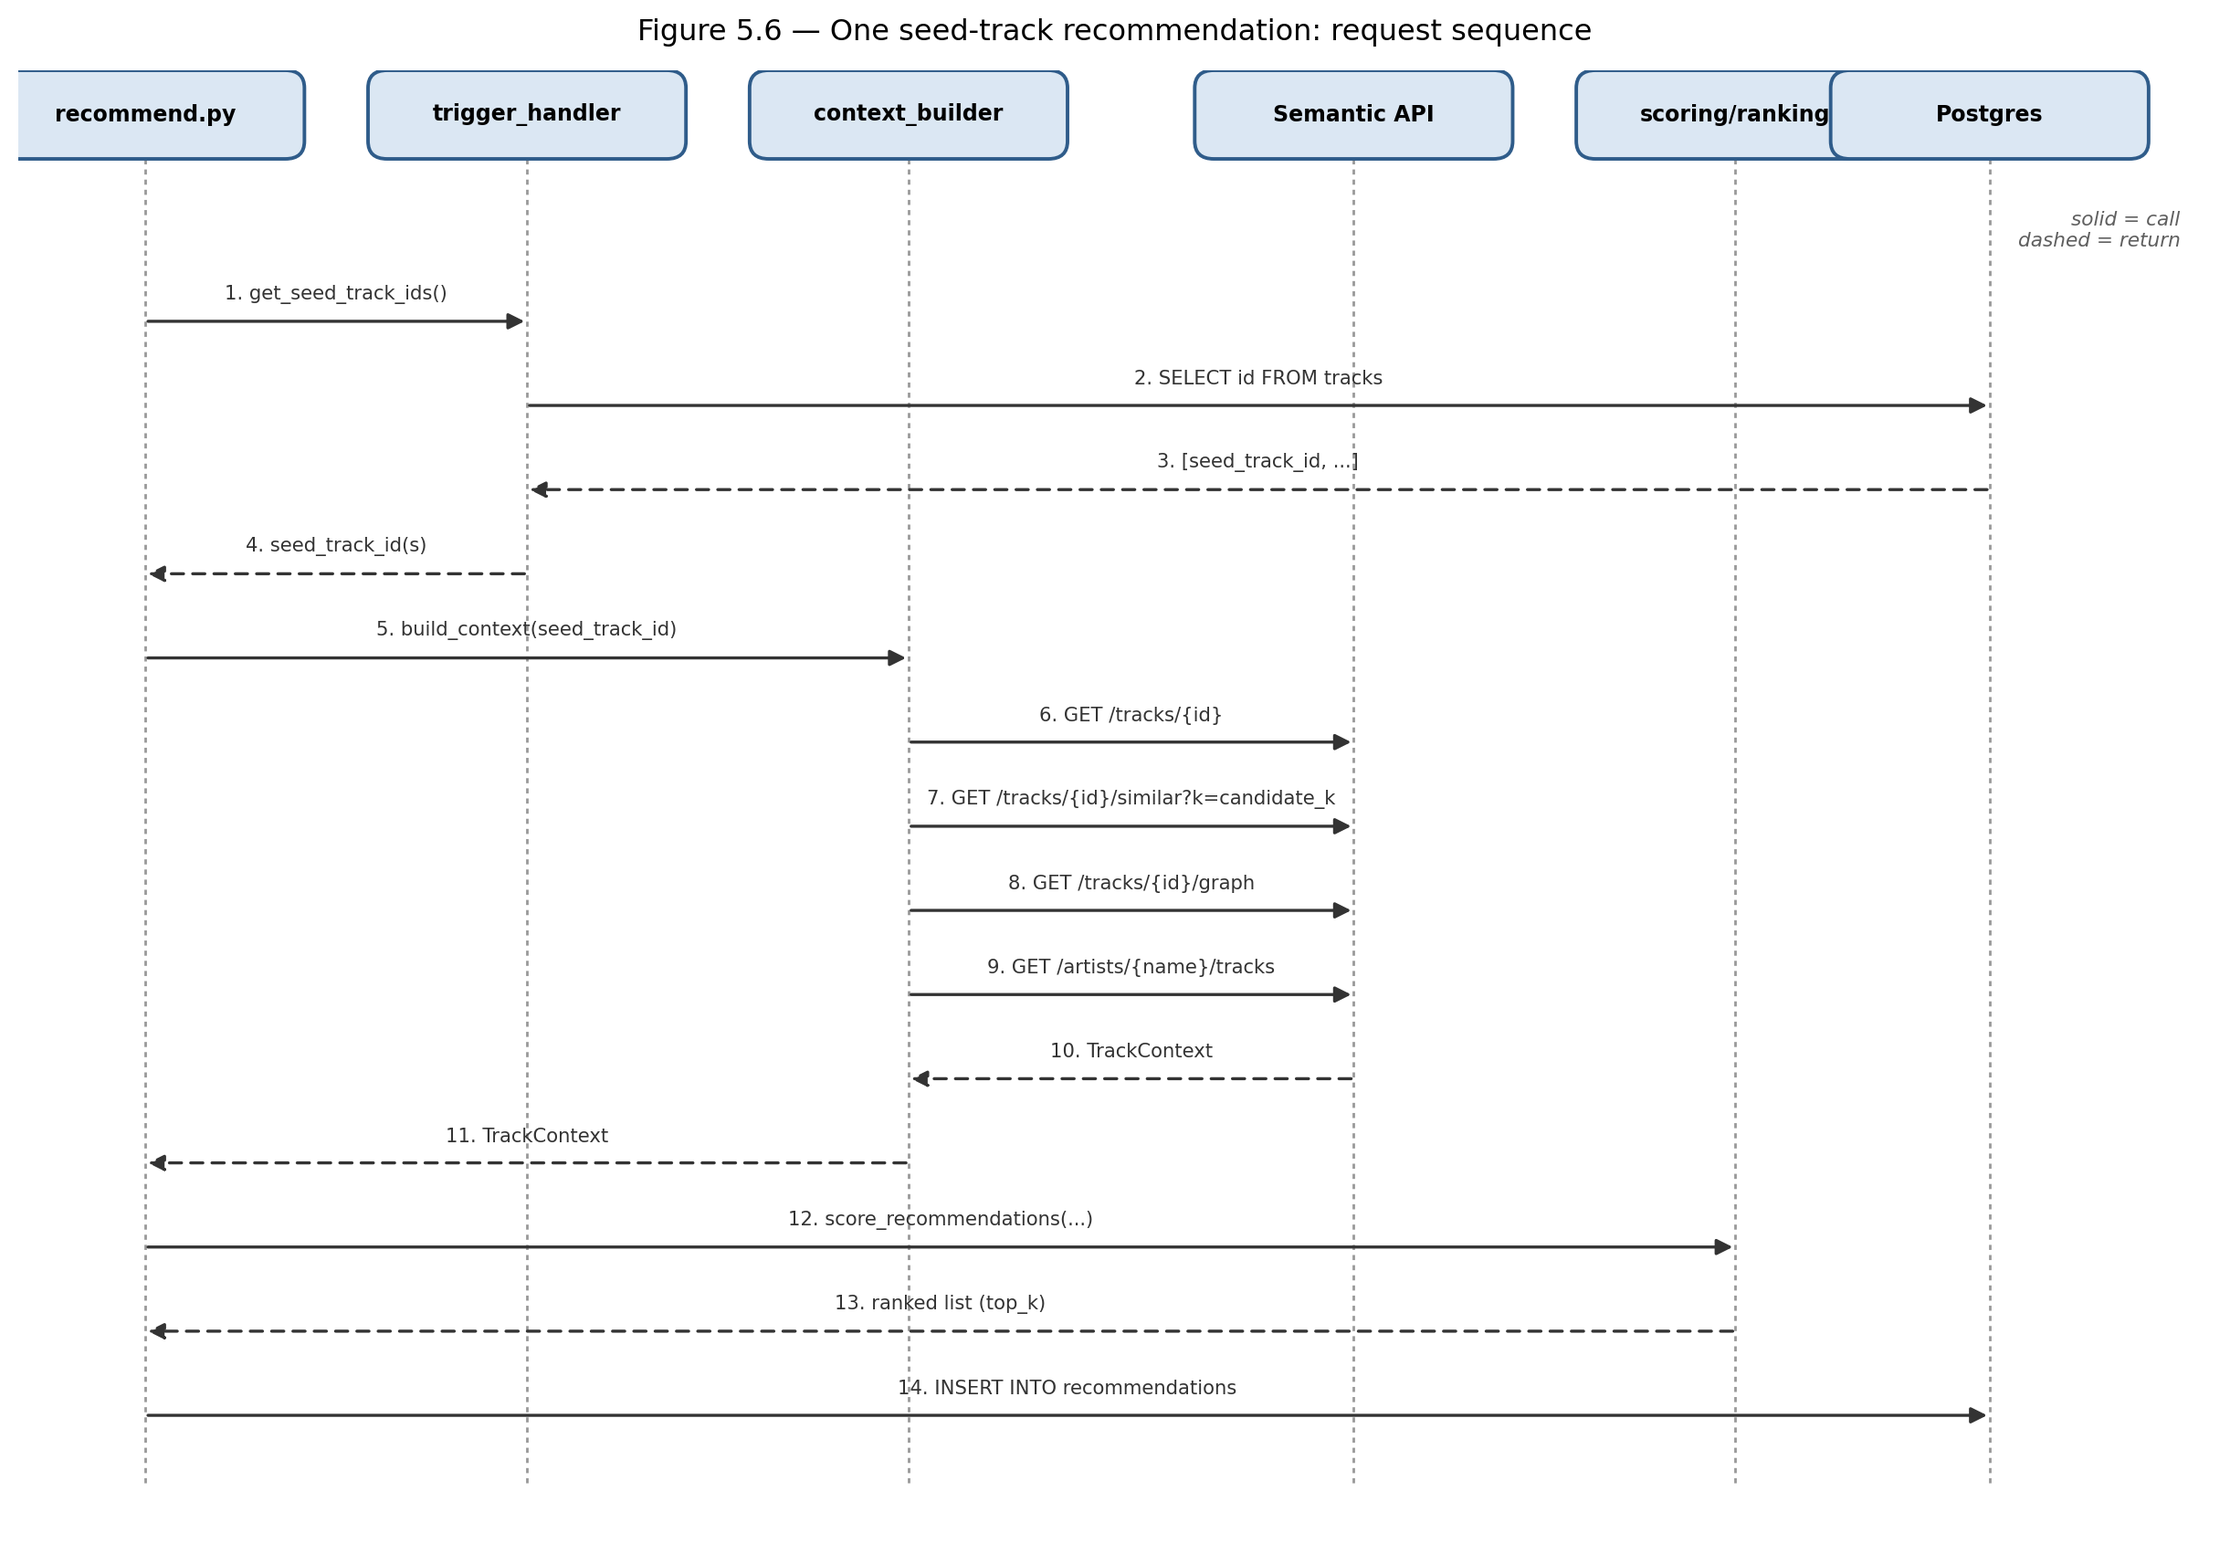
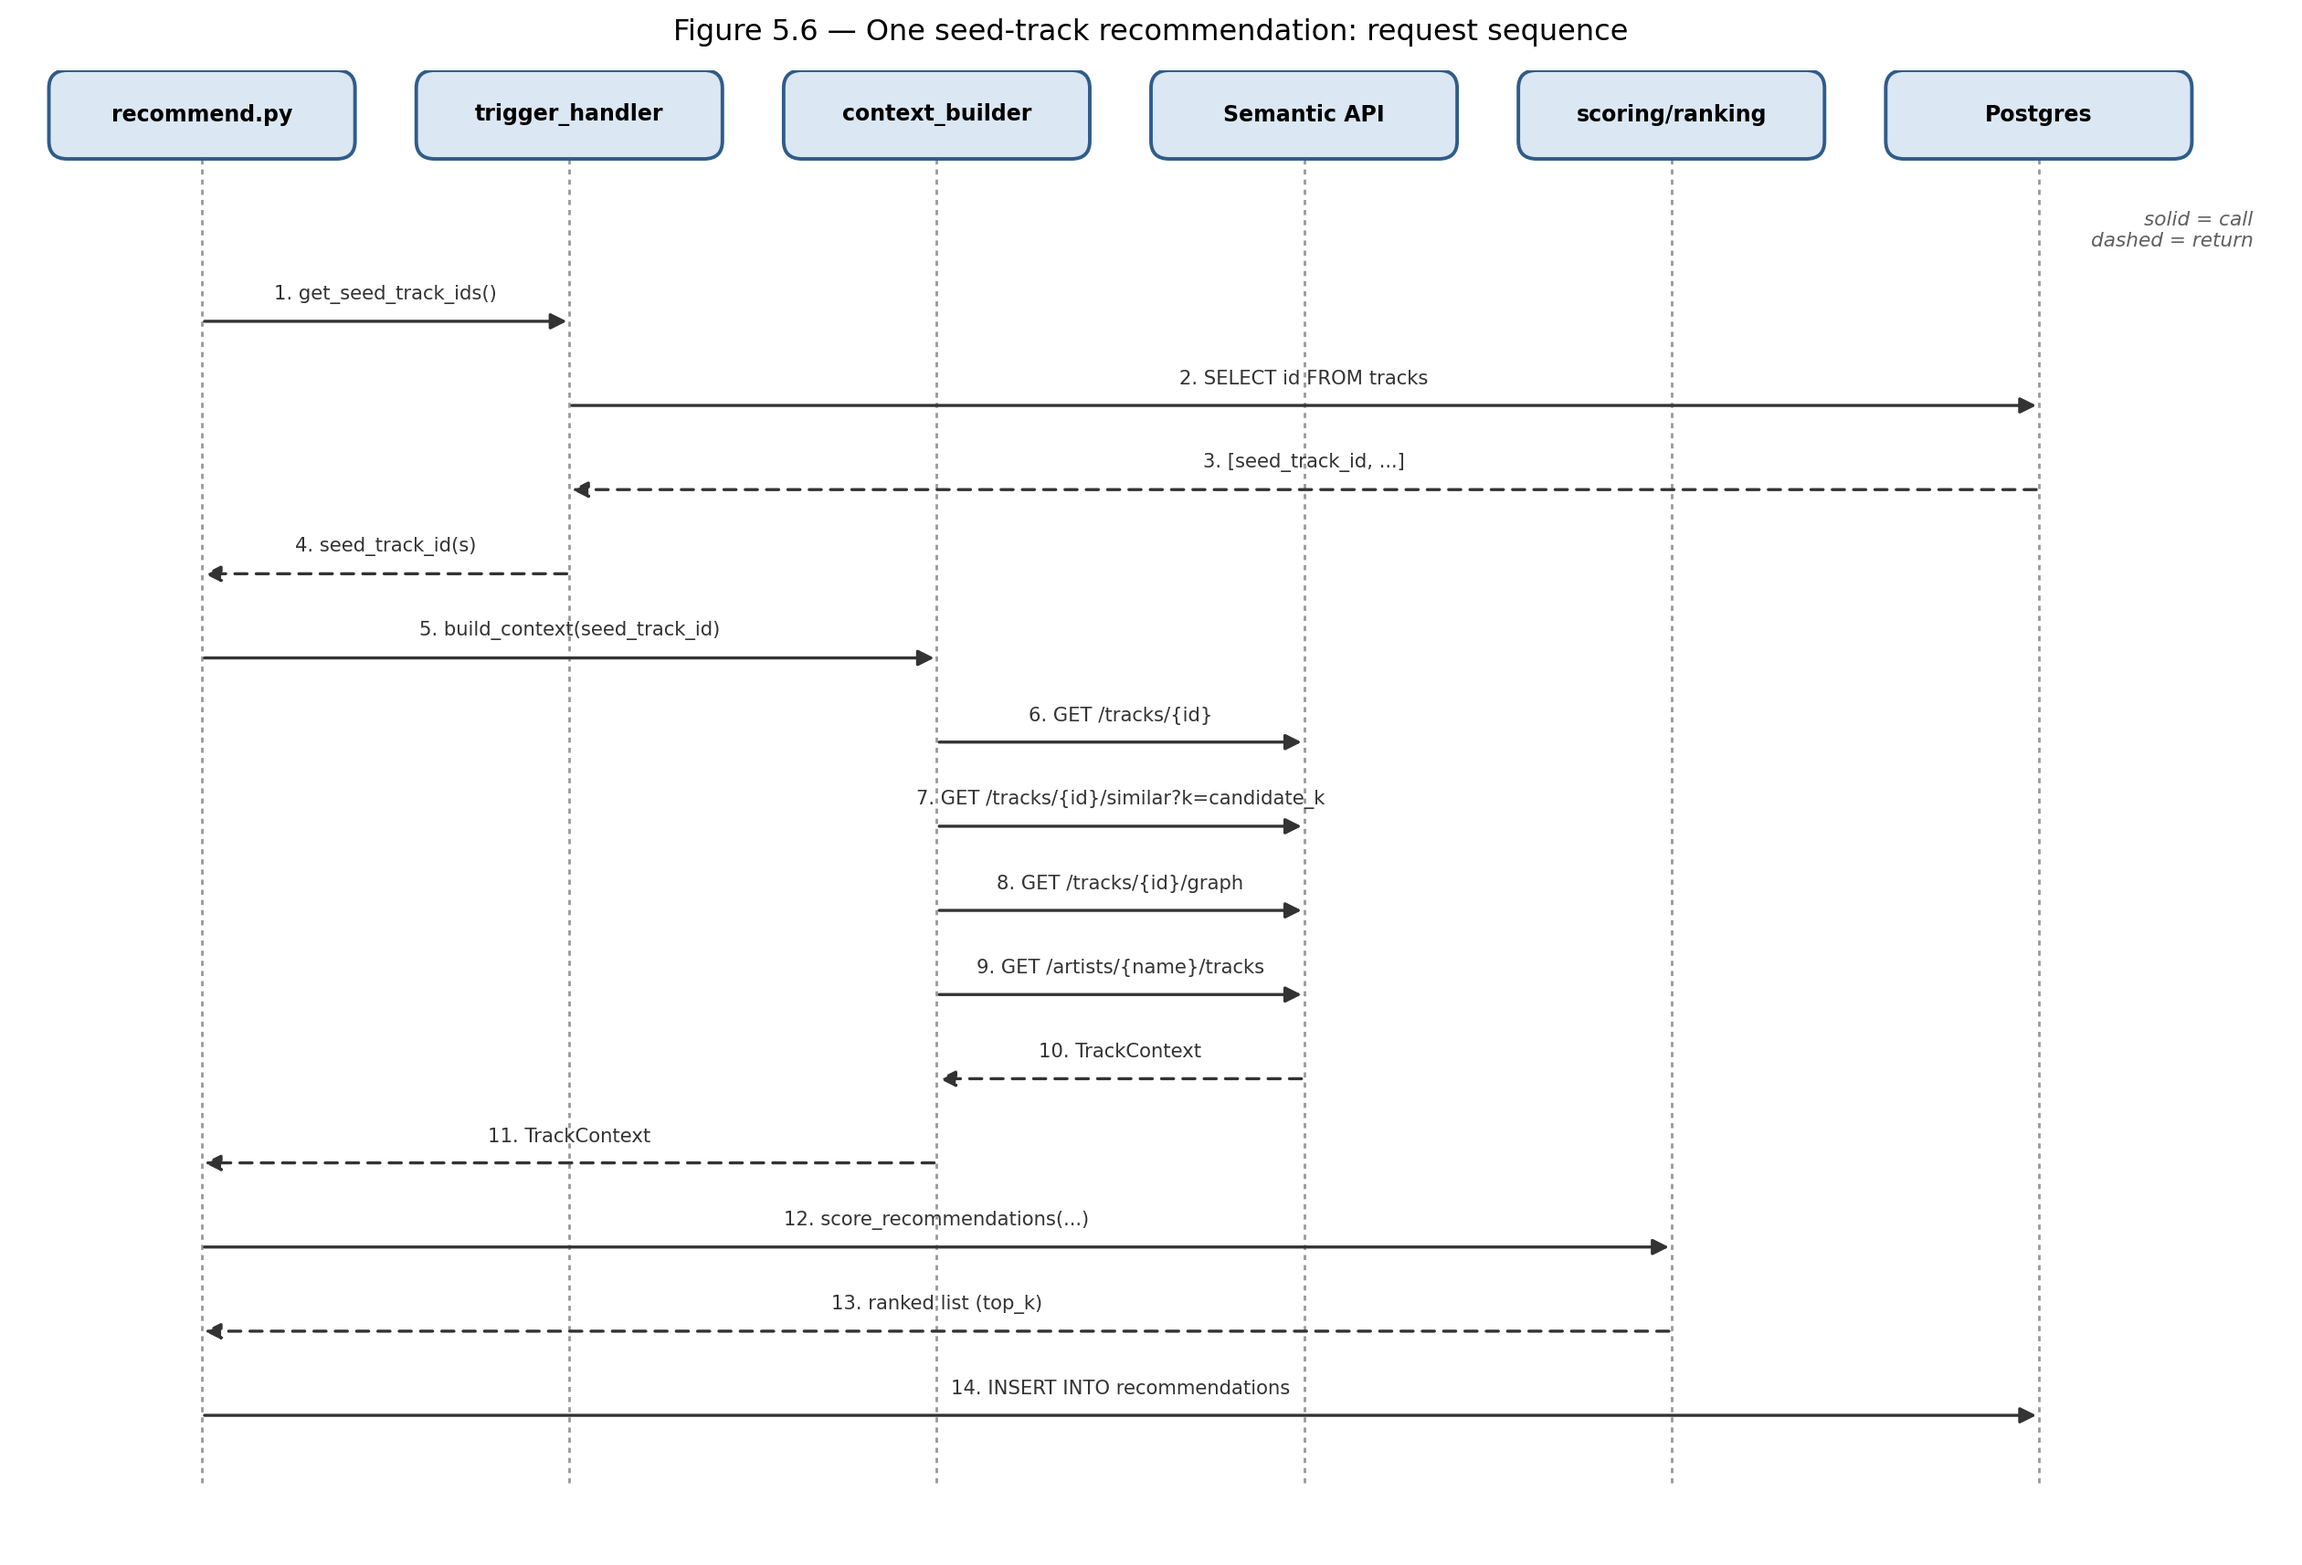
docs: fix clipped and overlapping actor boxes in Figure 5.6
recommend.py's header box started at x=8 with width 20 (left edge -2),
silently clipped by the canvas edge at x=0. Actor spacing was also
uneven (24, 24, 28, 24, 16 between consecutive centers) -- the last gap
of 16 was narrower than the 20-wide boxes, so scoring/ranking and
Postgres overlapped.

Actors now sit on a uniform 24-unit grid (12, 36, 60, 84, 108, 132),
leaving a consistent 4-unit gap between every pair of adjacent 20-wide
boxes, with the canvas widened (xlim 0-148) so the first and last boxes
both have clearance. Named the six x-positions instead of repeating
magic numbers across the 14-step message list, so a future change to
one actor's position can't drift out of sync with the steps again.

thesis/thesis.docx rebuilt (64 pages, unchanged).

diff --git a/thesis/figures/make_82_diagrams.py b/thesis/figures/make_82_diagrams.py
@@ -584,15 +584,21 @@ def fig_uc81_modules():
 # (Chapter 5, Section 5.6.2)
 # --------------------------------------------------------------------------
 def fig_uc81_sequence():
-    fig, ax = canvas(15.5, 10.5, xlim=(0, 138), ylim=(0, 100))
+    fig, ax = canvas(16.0, 10.5, xlim=(0, 148), ylim=(0, 100))
 
+    # Uniform 24-unit spacing for every actor -- each header box is 20 wide,
+    # so this leaves a 4-unit gap between adjacent boxes. The previous
+    # version used uneven spacing (last gap only 16) which let the
+    # scoring/ranking and Postgres boxes overlap, and started its first
+    # actor at x=8 (box left edge at -2), which the canvas silently clipped.
+    RECOMMEND, TRIGGER, CONTEXT, SEMANTIC_API, SCORING, POSTGRES = 12, 36, 60, 84, 108, 132
     actors = [
-        ("recommend.py", 8),
-        ("trigger_handler", 32),
-        ("context_builder", 56),
-        ("Semantic API", 84),
-        ("scoring/ranking", 108),
-        ("Postgres", 124),
+        ("recommend.py", RECOMMEND),
+        ("trigger_handler", TRIGGER),
+        ("context_builder", CONTEXT),
+        ("Semantic API", SEMANTIC_API),
+        ("scoring/ranking", SCORING),
+        ("Postgres", POSTGRES),
     ]
     top_y, bottom_y = 94, 4
     for name, x in actors:
@@ -609,26 +615,26 @@ def fig_uc81_sequence():
     y = 83
     step = 5.7
     steps = [
-        (8, 32, "1. get_seed_track_ids()", False),
-        (32, 124, "2. SELECT id FROM tracks", False),
-        (124, 32, "3. [seed_track_id, ...]", True),
-        (32, 8, "4. seed_track_id(s)", True),
-        (8, 56, "5. build_context(seed_track_id)", False),
-        (56, 84, "6. GET /tracks/{id}", False),
-        (56, 84, "7. GET /tracks/{id}/similar?k=candidate_k", False),
-        (56, 84, "8. GET /tracks/{id}/graph", False),
-        (56, 84, "9. GET /artists/{name}/tracks", False),
-        (84, 56, "10. TrackContext", True),
-        (56, 8, "11. TrackContext", True),
-        (8, 108, "12. score_recommendations(...)", False),
-        (108, 8, "13. ranked list (top_k)", True),
-        (8, 124, "14. INSERT INTO recommendations", False),
+        (RECOMMEND, TRIGGER, "1. get_seed_track_ids()", False),
+        (TRIGGER, POSTGRES, "2. SELECT id FROM tracks", False),
+        (POSTGRES, TRIGGER, "3. [seed_track_id, ...]", True),
+        (TRIGGER, RECOMMEND, "4. seed_track_id(s)", True),
+        (RECOMMEND, CONTEXT, "5. build_context(seed_track_id)", False),
+        (CONTEXT, SEMANTIC_API, "6. GET /tracks/{id}", False),
+        (CONTEXT, SEMANTIC_API, "7. GET /tracks/{id}/similar?k=candidate_k", False),
+        (CONTEXT, SEMANTIC_API, "8. GET /tracks/{id}/graph", False),
+        (CONTEXT, SEMANTIC_API, "9. GET /artists/{name}/tracks", False),
+        (SEMANTIC_API, CONTEXT, "10. TrackContext", True),
+        (CONTEXT, RECOMMEND, "11. TrackContext", True),
+        (RECOMMEND, SCORING, "12. score_recommendations(...)", False),
+        (SCORING, RECOMMEND, "13. ranked list (top_k)", True),
+        (RECOMMEND, POSTGRES, "14. INSERT INTO recommendations", False),
     ]
     for x_from, x_to, label, dashed in steps:
         msg(y, x_from, x_to, label, dashed=dashed)
         y -= step
 
-    ax.text(136, 90.5, "solid = call\ndashed = return",
+    ax.text(146, 90.5, "solid = call\ndashed = return",
             ha="right", va="top", fontsize=7.8, color="#5f5f5f", style="italic")
 
     ax.set_title("Figure 5.6 — One seed-track recommendation: request sequence",
